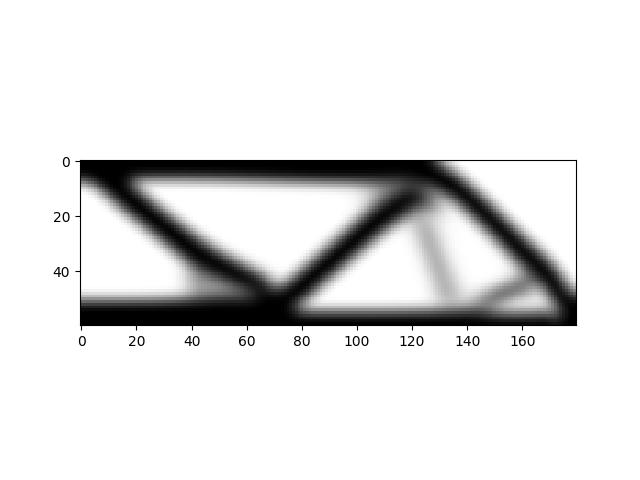
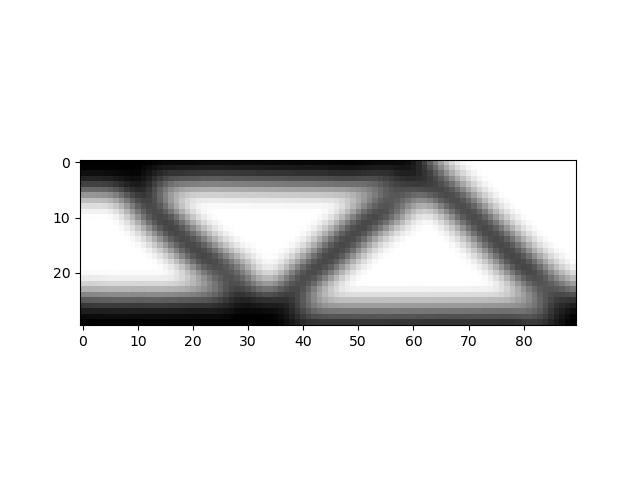
midterm finished by Connor

diff --git a/vox2mesh.py b/vox2mesh.py
@@ -7,10 +7,15 @@ from skimage import measure
 
 
 ### load structure data using np.loadtxt
-op_str = # complete the code here
-
+op_str = np.loadtxt("./results/optimized_structure.txt")
 ### preprocessing the data
+# Check if the data is 1D and reshape it to 2D if necessary
+# You can specify the dimensions here according to your problem's requirements
+nelx = 90  # Number of elements along the x-axis
+nely = 30  # Number of elements along the y-axis
 
+if op_str.ndim == 1:
+    op_str = op_str.reshape((nely, nelx))  # Reshape the 1D array to 2D
 ## 1. write down the purpose of the following sippet in your report
 th = 0.5 # set the density threshold
 op_str[0,op_str[0,:]>th]=th

diff --git a/topopt.py b/topopt.py
@@ -120,8 +120,7 @@ def main(nelx,nely,volfrac,penal,rmin,ft):
 	# save the optimized structured
 	op_structure = xPhys.reshape((nelx,nely)).T
 	# save op_structure to a file under results folder using np.savetxt
-# Save the optimized structure to a file under the "results" folder
-	np.savetxt("./results/op_structure.txt", op_structure, fmt="%0.6f")
+	np.savetxt("./results/optimized_structure.txt", xPhys)
 
 	#raw_input("Press any key...")
 #element stiffness matrix